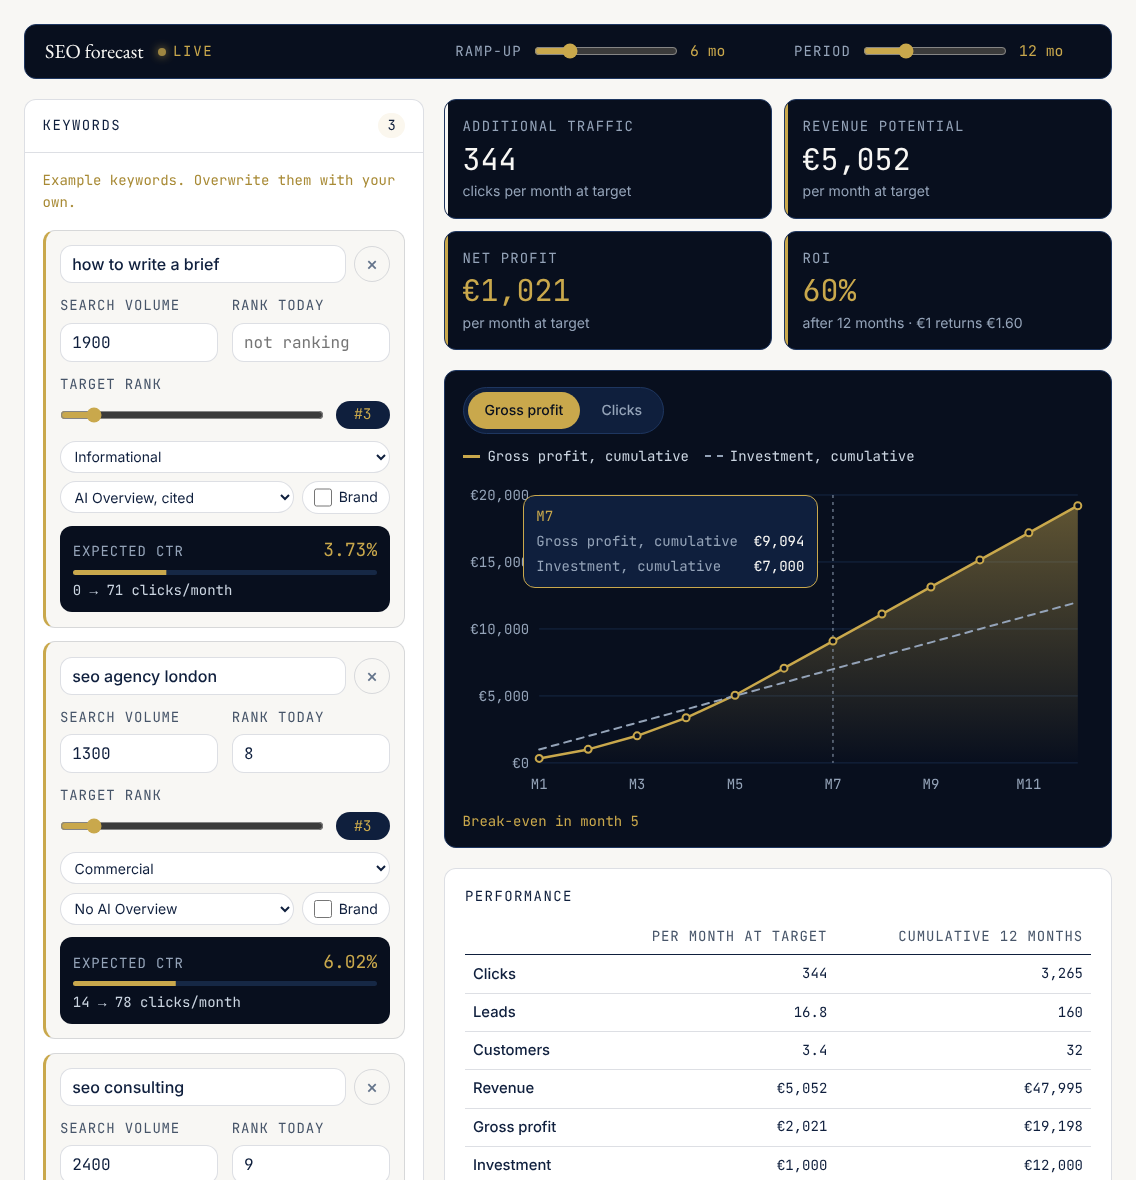
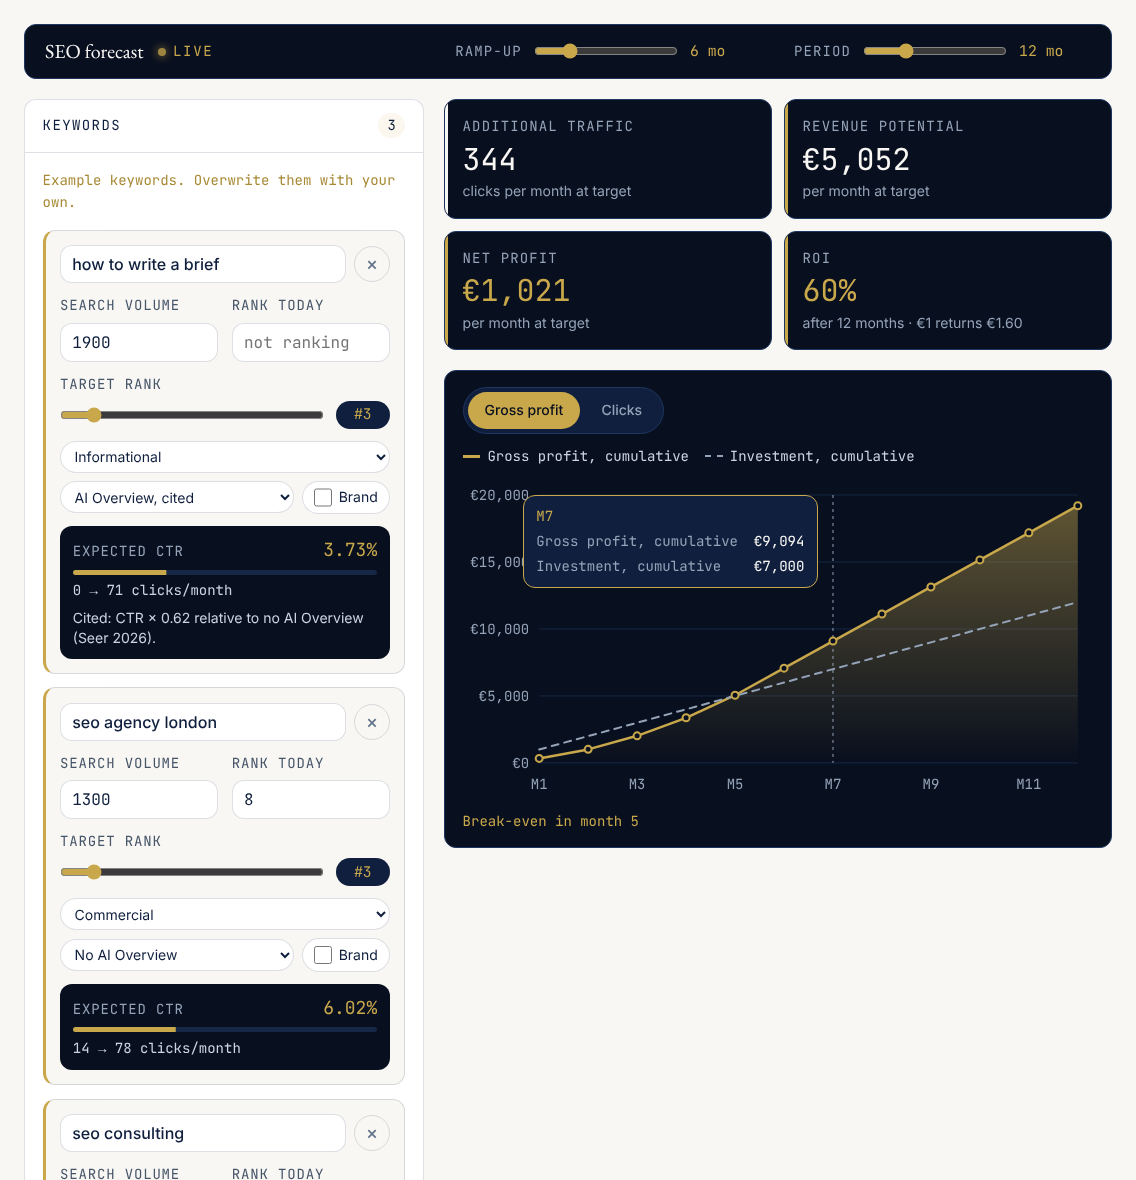
1.4.1: only key figures and chart stay sticky (from 820 px window height), performance and keyword tables flow below, citation factor shown on the keyword card

diff --git a/src/ui.ts b/src/ui.ts
@@ -75,6 +75,8 @@ function strings(lang: Lang, currency: string) {
     aioReduction: (s: string) => `Mit AI Overview (Zitierung unbekannt) sinkt die CTR um den veröffentlichten Abschlag je Rang (${s}).`,
     aioCurve: 'Mit AI Overview (Zitierung unbekannt) gilt die eigene CTR-Spalte derselben Quelle.',
     aioNone: 'Für die eigene Kurve gibt es keinen AI-Overview-Abschlag; Ihre Search-Console-Daten enthalten den Effekt bereits.',
+    citedNote: (f: string) => `Zitiert: CTR × ${f} gegenüber keiner AI Overview (Seer 2026).`,
+    notCitedNote: (f: string, lo: string) => `Nicht zitiert: CTR × ${f} (Seer 2026, ohne ein Konto mit 47 % der Impressionen; mit ihm × ${lo}).`,
     citation: (l: string) => `Ist bekannt, ob Ihre Seite in der AI Overview zitiert wird, gilt statt des Durchschnitts: ${l}`,
     presetBrand: 'Keywords mit „Marke“ nutzen die Marken-Kurve, alle anderen die Kurve ohne Marke.',
     presetLength: 'Jedes Keyword nutzt die Kurve für seine Wortzahl (1 bis 4 Wörter).',
@@ -132,6 +134,8 @@ function strings(lang: Lang, currency: string) {
     aioReduction: (s: string) => `With an AI Overview (citation unknown), CTR drops by the published reduction per rank (${s}).`,
     aioCurve: 'With an AI Overview (citation unknown), the separate CTR column of the same source applies.',
     aioNone: 'Your own curve has no AI Overview reduction; your Search Console data already contains the effect.',
+    citedNote: (f: string) => `Cited: CTR × ${f} relative to no AI Overview (Seer 2026).`,
+    notCitedNote: (f: string, lo: string) => `Not cited: CTR × ${f} (Seer 2026, without one account holding 47% of impressions; with it × ${lo}).`,
     citation: (l: string) => `If you know whether your page is cited in the AI Overview, this applies instead of the average: ${l}`,
     presetBrand: 'Keywords marked “Brand” use the brand curve, all others the non-brand curve.',
     presetLength: 'Each keyword uses the curve for its word count (1 to 4 words).',
@@ -621,7 +625,9 @@ export function mount(root: HTMLElement, options: MountOptions = {}): Mounted {
   actions.append(exportBtn, exportFunnelBtn);
   kwResBox.append(el('h3', 'fc-card__title', t.kwTable), kwResBody, warnBox, actions);
 
-  main.append(messages, kpis, chartBox, perfBox, kwResBox);
+  main.append(messages, kpis, chartBox);
+  const below = el('div', 'fc-below');
+  below.append(perfBox, kwResBox);
 
   const cockpit = el('div', 'fc-cockpit');
   cockpit.append(side, main);
@@ -631,10 +637,10 @@ export function mount(root: HTMLElement, options: MountOptions = {}): Mounted {
   const assBody = el('div', 'fc-assumptions__body');
   assumptions.appendChild(assBody);
 
-  root.append(bar, cockpit, assumptions, el('p', 'fc-local', t.local));
+  root.append(bar, cockpit, below, assumptions, el('p', 'fc-local', t.local));
 
   // ---------- keyword cards ----------
-  const kwOut: Array<{ ctr: HTMLElement; clicks: HTMLElement; bar: HTMLElement }> = [];
+  const kwOut: Array<{ ctr: HTMLElement; clicks: HTMLElement; bar: HTMLElement; note: HTMLElement }> = [];
   function markOwnInput(): void {
     if (!examplesActive) return;
     examplesActive = false;
@@ -702,8 +708,9 @@ export function mount(root: HTMLElement, options: MountOptions = {}): Mounted {
       meter.appendChild(meterBar);
       const line = el('div', 'fc-kw__outline');
       line.append(el('span', 'fc-kw__outlabel', t.expected), ctrOut);
-      out.append(line, meter, clickOut);
-      kwOut.push({ ctr: ctrOut, clicks: clickOut, bar: meterBar });
+      const note = el('span', 'fc-kw__note');
+      out.append(line, meter, clickOut, note);
+      kwOut.push({ ctr: ctrOut, clicks: clickOut, bar: meterBar, note });
 
       card.append(top, nums, rankField, chips, out);
       kwList.appendChild(card);
@@ -755,6 +762,11 @@ export function mount(root: HTMLElement, options: MountOptions = {}): Mounted {
       o.ctr.textContent = t.pct(Math.round(k.targetCtr * 100) / 100);
       o.clicks.textContent = `${t.nf0.format(k.currentClicks)} → ${t.nf0.format(k.targetClicks)} ${t.perMonth}`;
       o.bar.style.transform = `scaleX(${(k.targetClicks / maxClicks).toFixed(3)})`;
+      const c = file.aio_citation;
+      o.note.textContent = !k.aio || !c ? ''
+        : k.aioCitation === 'cited' ? t.citedNote(t.nf2.format(c.cited))
+        : k.aioCitation === 'not-cited' ? t.notCitedNote(t.nf2.format(c.not_cited), t.nf2.format((c.not_cited_range || [c.not_cited])[0]))
+        : '';
     });
 
     const fs = funnelSettings();

diff --git a/dist/ui.js b/dist/ui.js
@@ -75,6 +75,8 @@ function strings(lang, currency) {
             aioReduction: (s) => `Mit AI Overview (Zitierung unbekannt) sinkt die CTR um den veröffentlichten Abschlag je Rang (${s}).`,
             aioCurve: 'Mit AI Overview (Zitierung unbekannt) gilt die eigene CTR-Spalte derselben Quelle.',
             aioNone: 'Für die eigene Kurve gibt es keinen AI-Overview-Abschlag; Ihre Search-Console-Daten enthalten den Effekt bereits.',
+            citedNote: (f) => `Zitiert: CTR × ${f} gegenüber keiner AI Overview (Seer 2026).`,
+            notCitedNote: (f, lo) => `Nicht zitiert: CTR × ${f} (Seer 2026, ohne ein Konto mit 47 % der Impressionen; mit ihm × ${lo}).`,
             citation: (l) => `Ist bekannt, ob Ihre Seite in der AI Overview zitiert wird, gilt statt des Durchschnitts: ${l}`,
             presetBrand: 'Keywords mit „Marke“ nutzen die Marken-Kurve, alle anderen die Kurve ohne Marke.',
             presetLength: 'Jedes Keyword nutzt die Kurve für seine Wortzahl (1 bis 4 Wörter).',
@@ -131,6 +133,8 @@ function strings(lang, currency) {
         aioReduction: (s) => `With an AI Overview (citation unknown), CTR drops by the published reduction per rank (${s}).`,
         aioCurve: 'With an AI Overview (citation unknown), the separate CTR column of the same source applies.',
         aioNone: 'Your own curve has no AI Overview reduction; your Search Console data already contains the effect.',
+        citedNote: (f) => `Cited: CTR × ${f} relative to no AI Overview (Seer 2026).`,
+        notCitedNote: (f, lo) => `Not cited: CTR × ${f} (Seer 2026, without one account holding 47% of impressions; with it × ${lo}).`,
         citation: (l) => `If you know whether your page is cited in the AI Overview, this applies instead of the average: ${l}`,
         presetBrand: 'Keywords marked “Brand” use the brand curve, all others the non-brand curve.',
         presetLength: 'Each keyword uses the curve for its word count (1 to 4 words).',
@@ -596,14 +600,16 @@ export function mount(root, options = {}) {
     const exportFunnelBtn = button(t.exportFunnel, 'fc-btn--ghost fc-btn--small');
     actions.append(exportBtn, exportFunnelBtn);
     kwResBox.append(el('h3', 'fc-card__title', t.kwTable), kwResBody, warnBox, actions);
-    main.append(messages, kpis, chartBox, perfBox, kwResBox);
+    main.append(messages, kpis, chartBox);
+    const below = el('div', 'fc-below');
+    below.append(perfBox, kwResBox);
     const cockpit = el('div', 'fc-cockpit');
     cockpit.append(side, main);
     const assumptions = el('details', 'fc-assumptions');
     assumptions.appendChild(el('summary', undefined, t.assumptions));
     const assBody = el('div', 'fc-assumptions__body');
     assumptions.appendChild(assBody);
-    root.append(bar, cockpit, assumptions, el('p', 'fc-local', t.local));
+    root.append(bar, cockpit, below, assumptions, el('p', 'fc-local', t.local));
     // ---------- keyword cards ----------
     const kwOut = [];
     function markOwnInput() {
@@ -682,8 +688,9 @@ export function mount(root, options = {}) {
             meter.appendChild(meterBar);
             const line = el('div', 'fc-kw__outline');
             line.append(el('span', 'fc-kw__outlabel', t.expected), ctrOut);
-            out.append(line, meter, clickOut);
-            kwOut.push({ ctr: ctrOut, clicks: clickOut, bar: meterBar });
+            const note = el('span', 'fc-kw__note');
+            out.append(line, meter, clickOut, note);
+            kwOut.push({ ctr: ctrOut, clicks: clickOut, bar: meterBar, note });
             card.append(top, nums, rankField, chips, out);
             kwList.appendChild(card);
         });
@@ -740,6 +747,11 @@ export function mount(root, options = {}) {
             o.ctr.textContent = t.pct(Math.round(k.targetCtr * 100) / 100);
             o.clicks.textContent = `${t.nf0.format(k.currentClicks)} → ${t.nf0.format(k.targetClicks)} ${t.perMonth}`;
             o.bar.style.transform = `scaleX(${(k.targetClicks / maxClicks).toFixed(3)})`;
+            const c = file.aio_citation;
+            o.note.textContent = !k.aio || !c ? ''
+                : k.aioCitation === 'cited' ? t.citedNote(t.nf2.format(c.cited))
+                    : k.aioCitation === 'not-cited' ? t.notCitedNote(t.nf2.format(c.not_cited), t.nf2.format((c.not_cited_range || [c.not_cited])[0]))
+                        : '';
         });
         const fs = funnelSettings();
         const valid = fs ? validateFunnel(fs).length === 0 : false;

diff --git a/package/seo-forecast.js b/package/seo-forecast.js
@@ -1,4 +1,4 @@
-/*! seo-forecast 1.4.0 · MIT License · https://github.com/litzki-systems/seo-forecast */
+/*! seo-forecast 1.4.1 · MIT License · https://github.com/litzki-systems/seo-forecast */
 
 // src/forecast.ts
 var round2 = (n) => Math.round(n * 100) / 100;
@@ -625,6 +625,8 @@ function strings(lang, currency) {
     aioReduction: (s) => `Mit AI Overview (Zitierung unbekannt) sinkt die CTR um den ver\xF6ffentlichten Abschlag je Rang (${s}).`,
     aioCurve: "Mit AI Overview (Zitierung unbekannt) gilt die eigene CTR-Spalte derselben Quelle.",
     aioNone: "F\xFCr die eigene Kurve gibt es keinen AI-Overview-Abschlag; Ihre Search-Console-Daten enthalten den Effekt bereits.",
+    citedNote: (f) => `Zitiert: CTR \xD7 ${f} gegen\xFCber keiner AI Overview (Seer 2026).`,
+    notCitedNote: (f, lo) => `Nicht zitiert: CTR \xD7 ${f} (Seer 2026, ohne ein Konto mit 47 % der Impressionen; mit ihm \xD7 ${lo}).`,
     citation: (l) => `Ist bekannt, ob Ihre Seite in der AI Overview zitiert wird, gilt statt des Durchschnitts: ${l}`,
     presetBrand: "Keywords mit \u201EMarke\u201C nutzen die Marken-Kurve, alle anderen die Kurve ohne Marke.",
     presetLength: "Jedes Keyword nutzt die Kurve f\xFCr seine Wortzahl (1 bis 4 W\xF6rter).",
@@ -744,6 +746,8 @@ function strings(lang, currency) {
     aioReduction: (s) => `With an AI Overview (citation unknown), CTR drops by the published reduction per rank (${s}).`,
     aioCurve: "With an AI Overview (citation unknown), the separate CTR column of the same source applies.",
     aioNone: "Your own curve has no AI Overview reduction; your Search Console data already contains the effect.",
+    citedNote: (f) => `Cited: CTR \xD7 ${f} relative to no AI Overview (Seer 2026).`,
+    notCitedNote: (f, lo) => `Not cited: CTR \xD7 ${f} (Seer 2026, without one account holding 47% of impressions; with it \xD7 ${lo}).`,
     citation: (l) => `If you know whether your page is cited in the AI Overview, this applies instead of the average: ${l}`,
     presetBrand: "Keywords marked \u201CBrand\u201D use the brand curve, all others the non-brand curve.",
     presetLength: "Each keyword uses the curve for its word count (1 to 4 words).",
@@ -1195,14 +1199,16 @@ function mount(root, options = {}) {
   const exportFunnelBtn = button(t.exportFunnel, "fc-btn--ghost fc-btn--small");
   actions.append(exportBtn, exportFunnelBtn);
   kwResBox.append(el("h3", "fc-card__title", t.kwTable), kwResBody, warnBox, actions);
-  main.append(messages, kpis, chartBox, perfBox, kwResBox);
+  main.append(messages, kpis, chartBox);
+  const below = el("div", "fc-below");
+  below.append(perfBox, kwResBox);
   const cockpit = el("div", "fc-cockpit");
   cockpit.append(side, main);
   const assumptions = el("details", "fc-assumptions");
   assumptions.appendChild(el("summary", void 0, t.assumptions));
   const assBody = el("div", "fc-assumptions__body");
   assumptions.appendChild(assBody);
-  root.append(bar, cockpit, assumptions, el("p", "fc-local", t.local));
+  root.append(bar, cockpit, below, assumptions, el("p", "fc-local", t.local));
   const kwOut = [];
   function markOwnInput() {
     if (!examplesActive) return;
@@ -1309,8 +1315,9 @@ function mount(root, options = {}) {
       meter.appendChild(meterBar);
       const line = el("div", "fc-kw__outline");
       line.append(el("span", "fc-kw__outlabel", t.expected), ctrOut);
-      out.append(line, meter, clickOut);
-      kwOut.push({ ctr: ctrOut, clicks: clickOut, bar: meterBar });
+      const note = el("span", "fc-kw__note");
+      out.append(line, meter, clickOut, note);
+      kwOut.push({ ctr: ctrOut, clicks: clickOut, bar: meterBar, note });
       card.append(top, nums, rankField, chips, out);
       kwList.appendChild(card);
     });
@@ -1364,6 +1371,8 @@ function mount(root, options = {}) {
       o.ctr.textContent = t.pct(Math.round(k.targetCtr * 100) / 100);
       o.clicks.textContent = `${t.nf0.format(k.currentClicks)} \u2192 ${t.nf0.format(k.targetClicks)} ${t.perMonth}`;
       o.bar.style.transform = `scaleX(${(k.targetClicks / maxClicks).toFixed(3)})`;
+      const c = file.aio_citation;
+      o.note.textContent = !k.aio || !c ? "" : k.aioCitation === "cited" ? t.citedNote(t.nf2.format(c.cited)) : k.aioCitation === "not-cited" ? t.notCitedNote(t.nf2.format(c.not_cited), t.nf2.format((c.not_cited_range || [c.not_cited])[0])) : "";
     });
     const fs = funnelSettings();
     const valid = fs ? validateFunnel(fs).length === 0 : false;

diff --git a/css/seo-forecast.css b/css/seo-forecast.css
@@ -29,6 +29,11 @@
 .fc-cockpit { display: grid; gap: 1.25rem; align-items: start; }
 @media (min-width: 1100px) {
   .fc-cockpit { grid-template-columns: minmax(20rem, 25rem) minmax(0, 1fr); }
+}
+.fc-below { display: grid; gap: 1.25rem; align-items: start; }
+@media (min-width: 1100px) { .fc-below { grid-template-columns: repeat(2, minmax(0, 1fr)); } }
+/* only key figures and chart stay in view, and only when the window is tall enough for them */
+@media (min-width: 1100px) and (min-height: 820px) {
   .fc-main { position: sticky; top: calc(var(--nav-h, 4rem) + 1rem); }
 }
 .fc-side, .fc-main { display: grid; gap: 1.25rem; min-width: 0; }
@@ -99,6 +104,8 @@
 .fc-kw__outline { display: flex; justify-content: space-between; align-items: baseline; gap: 0.5rem; }
 .fc-kw__outlabel { font-family: var(--font-mono); font-size: var(--text-xs); letter-spacing: 0.06em; text-transform: uppercase; color: var(--color-gray-400); }
 .fc-kw__ctr { font-family: var(--font-mono); font-size: var(--text-lg); color: var(--color-accent); }
+.fc-kw__note { font-size: var(--text-xs); line-height: 1.45; color: var(--color-gray-300); }
+.fc-kw__note:empty { display: none; }
 .fc-kw__clicks { font-family: var(--font-mono); font-size: var(--text-xs); color: var(--color-gray-300); }
 .fc-meter { display: block; height: 0.3rem; background: var(--color-navy-mid); border-radius: var(--radius-pill); overflow: hidden; }
 .fc-meter__bar { display: block; height: 100%; background: var(--color-accent); transform-origin: left center; transform: scaleX(0); transition: transform .45s var(--ease-out, ease-out); }

diff --git a/package/seo-forecast.css b/package/seo-forecast.css
@@ -29,6 +29,11 @@
 .fc-cockpit { display: grid; gap: 1.25rem; align-items: start; }
 @media (min-width: 1100px) {
   .fc-cockpit { grid-template-columns: minmax(20rem, 25rem) minmax(0, 1fr); }
+}
+.fc-below { display: grid; gap: 1.25rem; align-items: start; }
+@media (min-width: 1100px) { .fc-below { grid-template-columns: repeat(2, minmax(0, 1fr)); } }
+/* only key figures and chart stay in view, and only when the window is tall enough for them */
+@media (min-width: 1100px) and (min-height: 820px) {
   .fc-main { position: sticky; top: calc(var(--nav-h, 4rem) + 1rem); }
 }
 .fc-side, .fc-main { display: grid; gap: 1.25rem; min-width: 0; }
@@ -99,6 +104,8 @@
 .fc-kw__outline { display: flex; justify-content: space-between; align-items: baseline; gap: 0.5rem; }
 .fc-kw__outlabel { font-family: var(--font-mono); font-size: var(--text-xs); letter-spacing: 0.06em; text-transform: uppercase; color: var(--color-gray-400); }
 .fc-kw__ctr { font-family: var(--font-mono); font-size: var(--text-lg); color: var(--color-accent); }
+.fc-kw__note { font-size: var(--text-xs); line-height: 1.45; color: var(--color-gray-300); }
+.fc-kw__note:empty { display: none; }
 .fc-kw__clicks { font-family: var(--font-mono); font-size: var(--text-xs); color: var(--color-gray-300); }
 .fc-meter { display: block; height: 0.3rem; background: var(--color-navy-mid); border-radius: var(--radius-pill); overflow: hidden; }
 .fc-meter__bar { display: block; height: 100%; background: var(--color-accent); transform-origin: left center; transform: scaleX(0); transition: transform .45s var(--ease-out, ease-out); }
